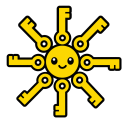
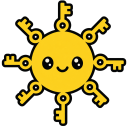
Use sun_bar mark for the top bar, bump 0.1.8

diff --git a/apps/enigma/apps/enigma/src/assets/logos.ts b/apps/enigma/apps/enigma/src/assets/logos.ts
@@ -1,6 +1,9 @@
 import { logoDir } from "../../package.json";
 
-// One mark, two renders. `logoDir` keeps the brand swappable in one place:
+// Two marks, deliberately not identical: `app_icon` is the sun-key v2 mark on
+// the unlock/welcome gate, `bar_icon` the v1 mark in the top bar. They read as
+// the same brand at a glance, which is the point — the bar sits beside the
+// product name all day, the gate is a single large first impression. `logoDir` keeps the brand swappable in one place:
 // every asset below lives in `assets/<logoDir>/`, so changing the directory
 // changes the whole app's face without touching a component.
 //
